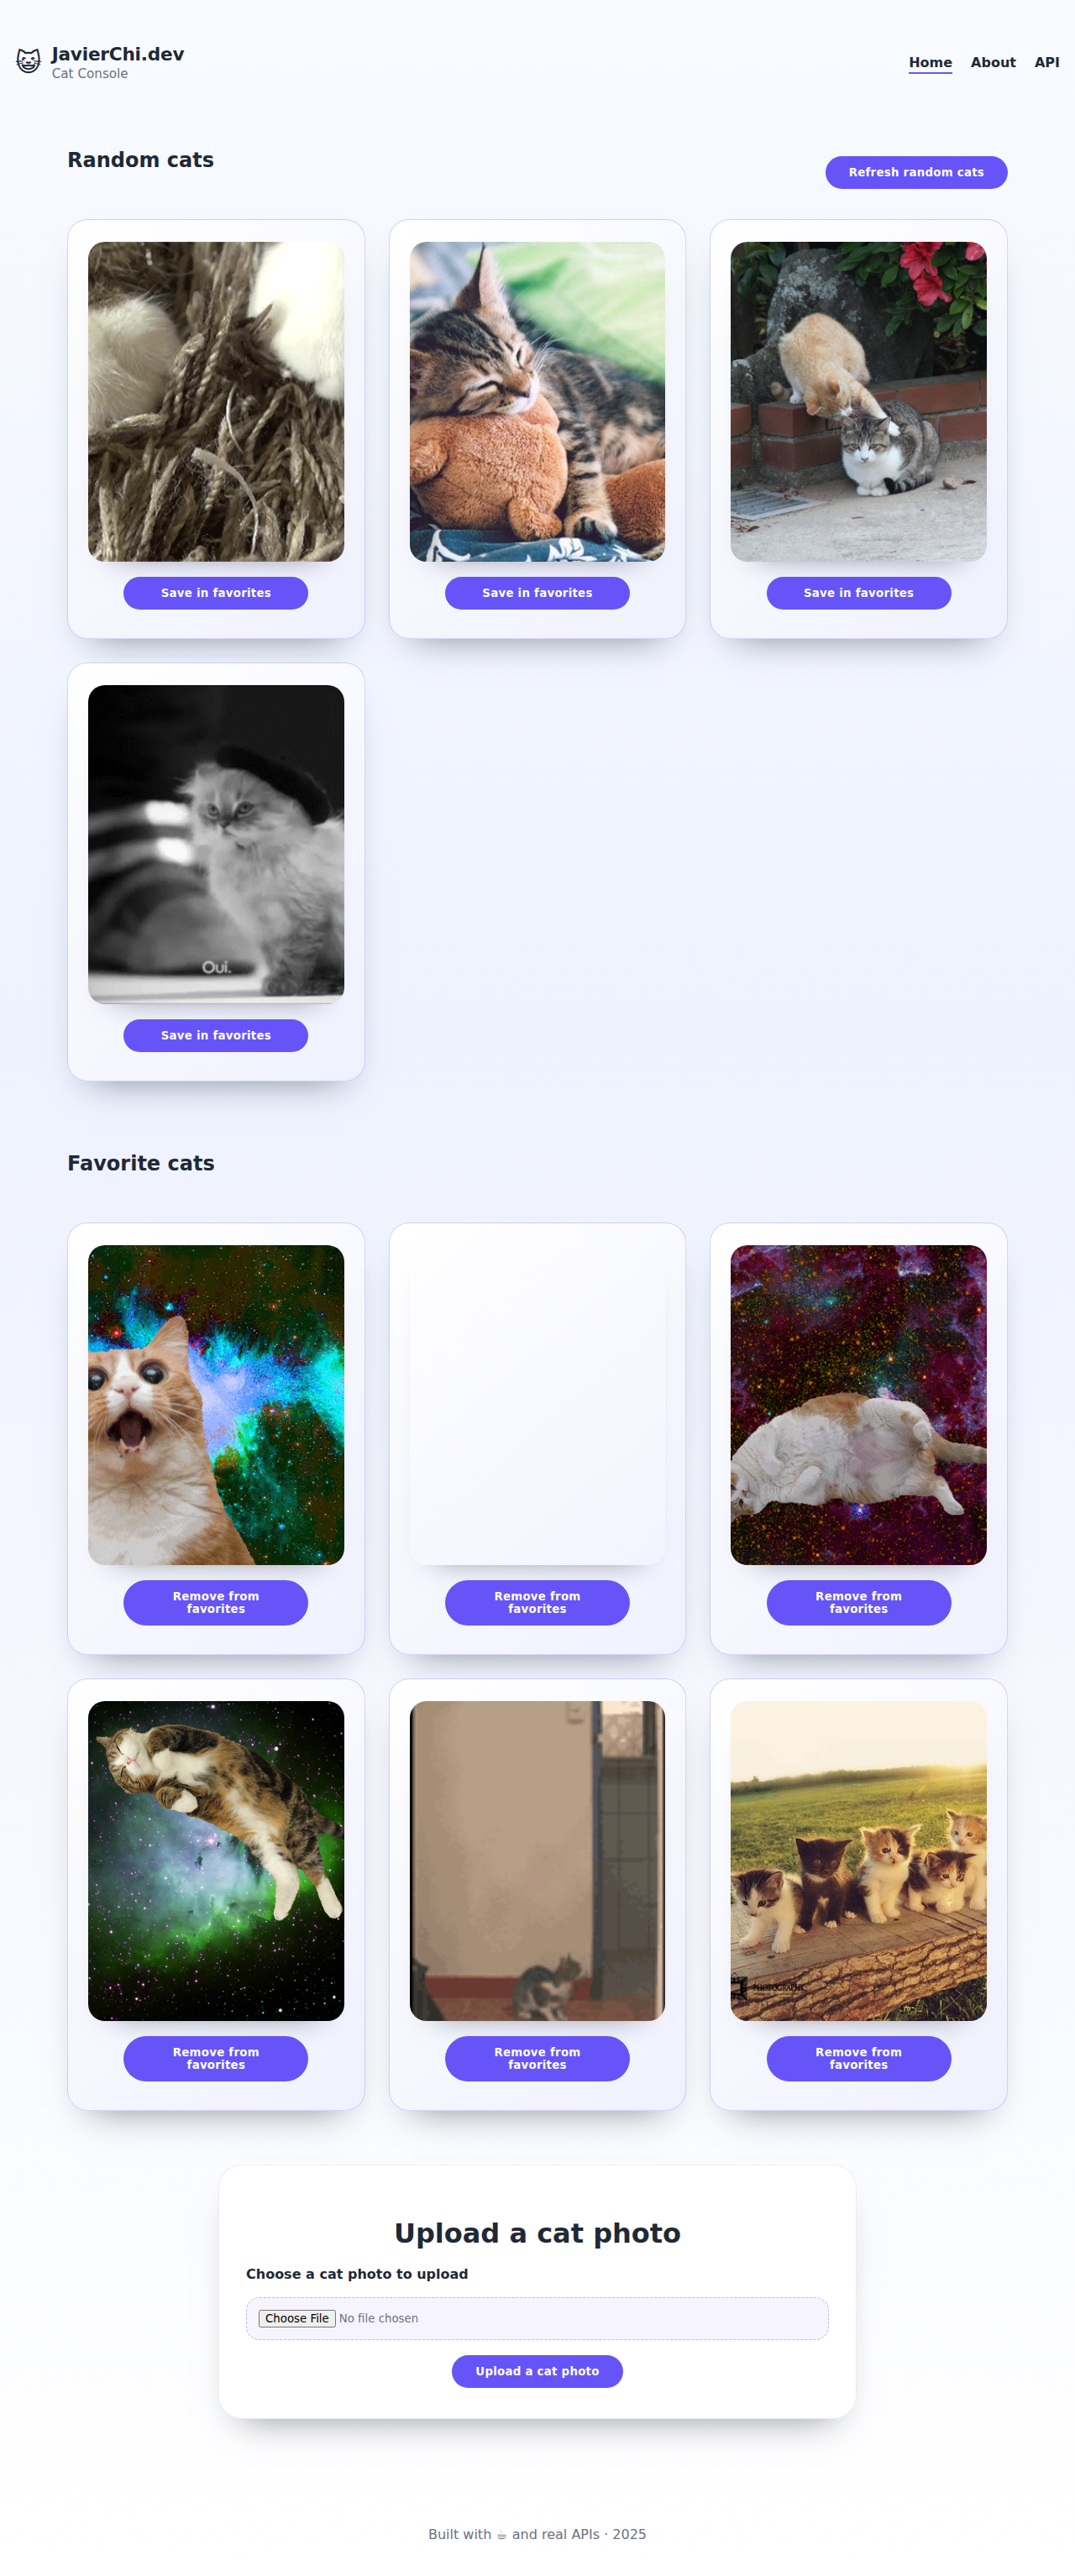
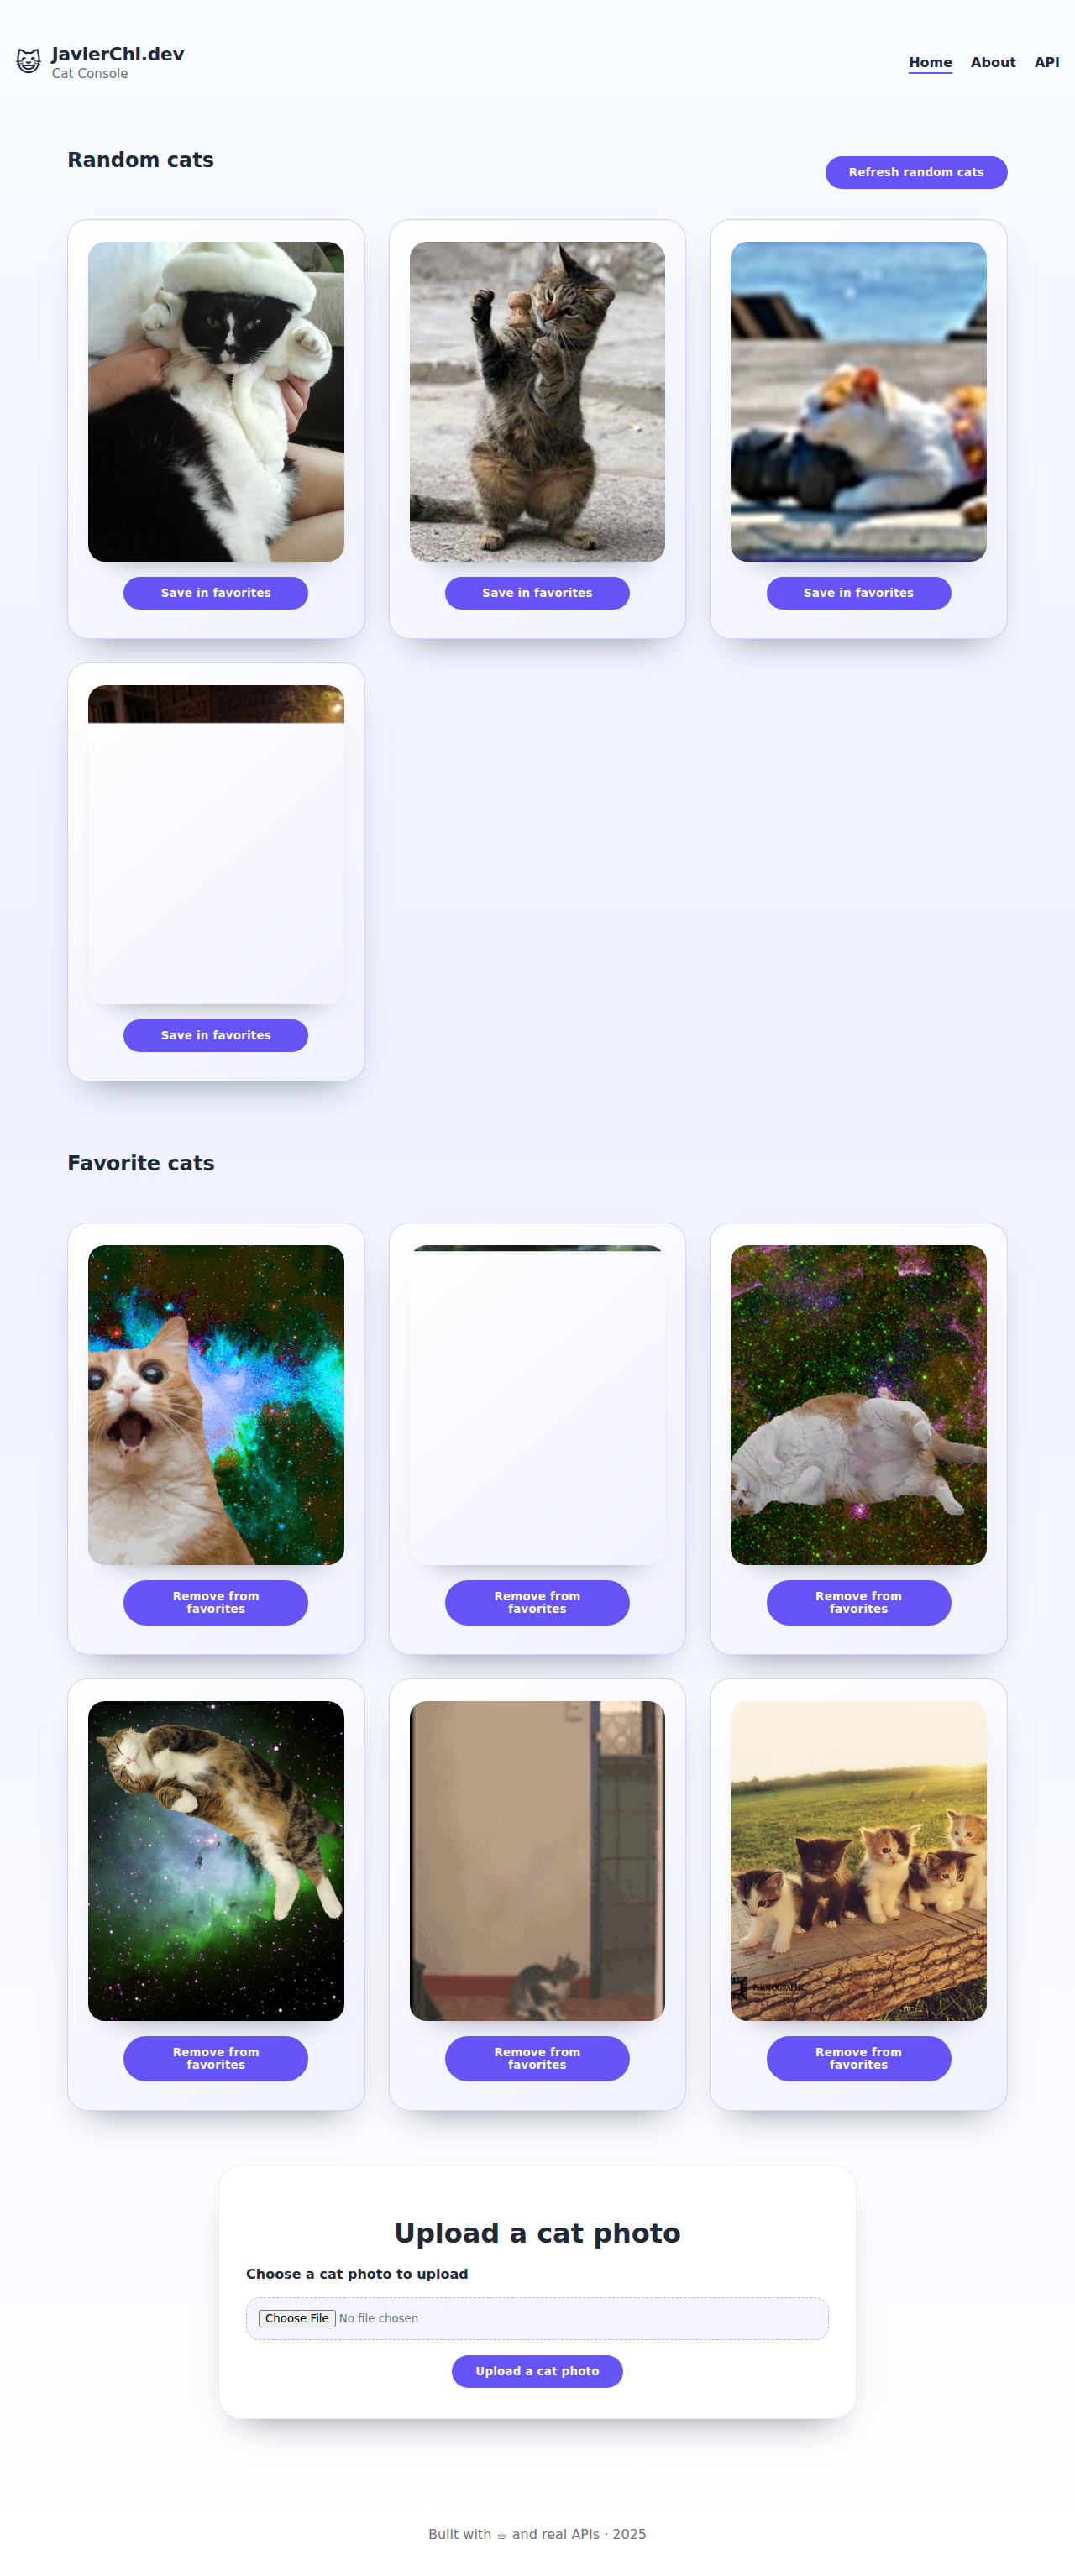
chore: add cat assets and image processing scripts

diff --git a/scripts/remove_bg.js b/scripts/remove_bg.js
@@ -1,0 +1,32 @@
+const { Jimp } = require('jimp');
+const path = require('path');
+
+async function removeWhite() {
+    const input = process.argv[2];
+    const output = process.argv[3];
+
+    try {
+        const image = await Jimp.read(input);
+
+        image.scan(0, 0, image.bitmap.width, image.bitmap.height, function (x, y, idx) {
+            const red = this.bitmap.data[idx + 0];
+            const green = this.bitmap.data[idx + 1];
+            const blue = this.bitmap.data[idx + 2];
+
+            // If close to white, make transparent
+            if (red > 240 && green > 240 && blue > 240) {
+                this.bitmap.data[idx + 3] = 0; // Alpha to 0
+            }
+        });
+
+        image.write(output, (err) => {
+            if (err) throw err;
+            console.log('Processed', output);
+        });
+    } catch (err) {
+        console.error(err);
+        process.exit(1);
+    }
+}
+
+removeWhite();

diff --git a/scripts/check_dim.js b/scripts/check_dim.js
@@ -1,0 +1,13 @@
+const { Jimp } = require('jimp');
+
+async function checkDimensions() {
+    const input = process.argv[2];
+    try {
+        const image = await Jimp.read(input);
+        console.log(`Width: ${image.bitmap.width}, Height: ${image.bitmap.height}`);
+    } catch (err) {
+        console.error(err);
+    }
+}
+
+checkDimensions();

diff --git a/scripts/capture-screenshots.js b/scripts/capture-screenshots.js
@@ -20,6 +20,10 @@ const targets = [
     url: 'https://javierchiortiz.dev/',
     out: 'public/utils/img/portfolio-personal-live-screenshot.png',
   },
+  {
+    url: 'https://scandiamfg.com/',
+    out: 'public/utils/img/scandia-manufacturing-screenshot.png',
+  },
 ];
 
 (async () => {

diff --git a/scripts/remove_bg.py b/scripts/remove_bg.py
@@ -1,0 +1,23 @@
+from PIL import Image
+import sys
+
+def remove_white(input_path, output_path):
+    img = Image.open(input_path)
+    img = img.convert("RGBA")
+    datas = img.getdata()
+
+    newData = []
+    for item in datas:
+        # Change all white (also shades of whites)
+        # to transparent
+        if item[0] > 240 and item[1] > 240 and item[2] > 240:
+            newData.append((255, 255, 255, 0))
+        else:
+            newData.append(item)
+
+    img.putdata(newData)
+    img.save(output_path, "PNG")
+    print("Done")
+
+if __name__ == "__main__":
+    remove_white(sys.argv[1], sys.argv[2])